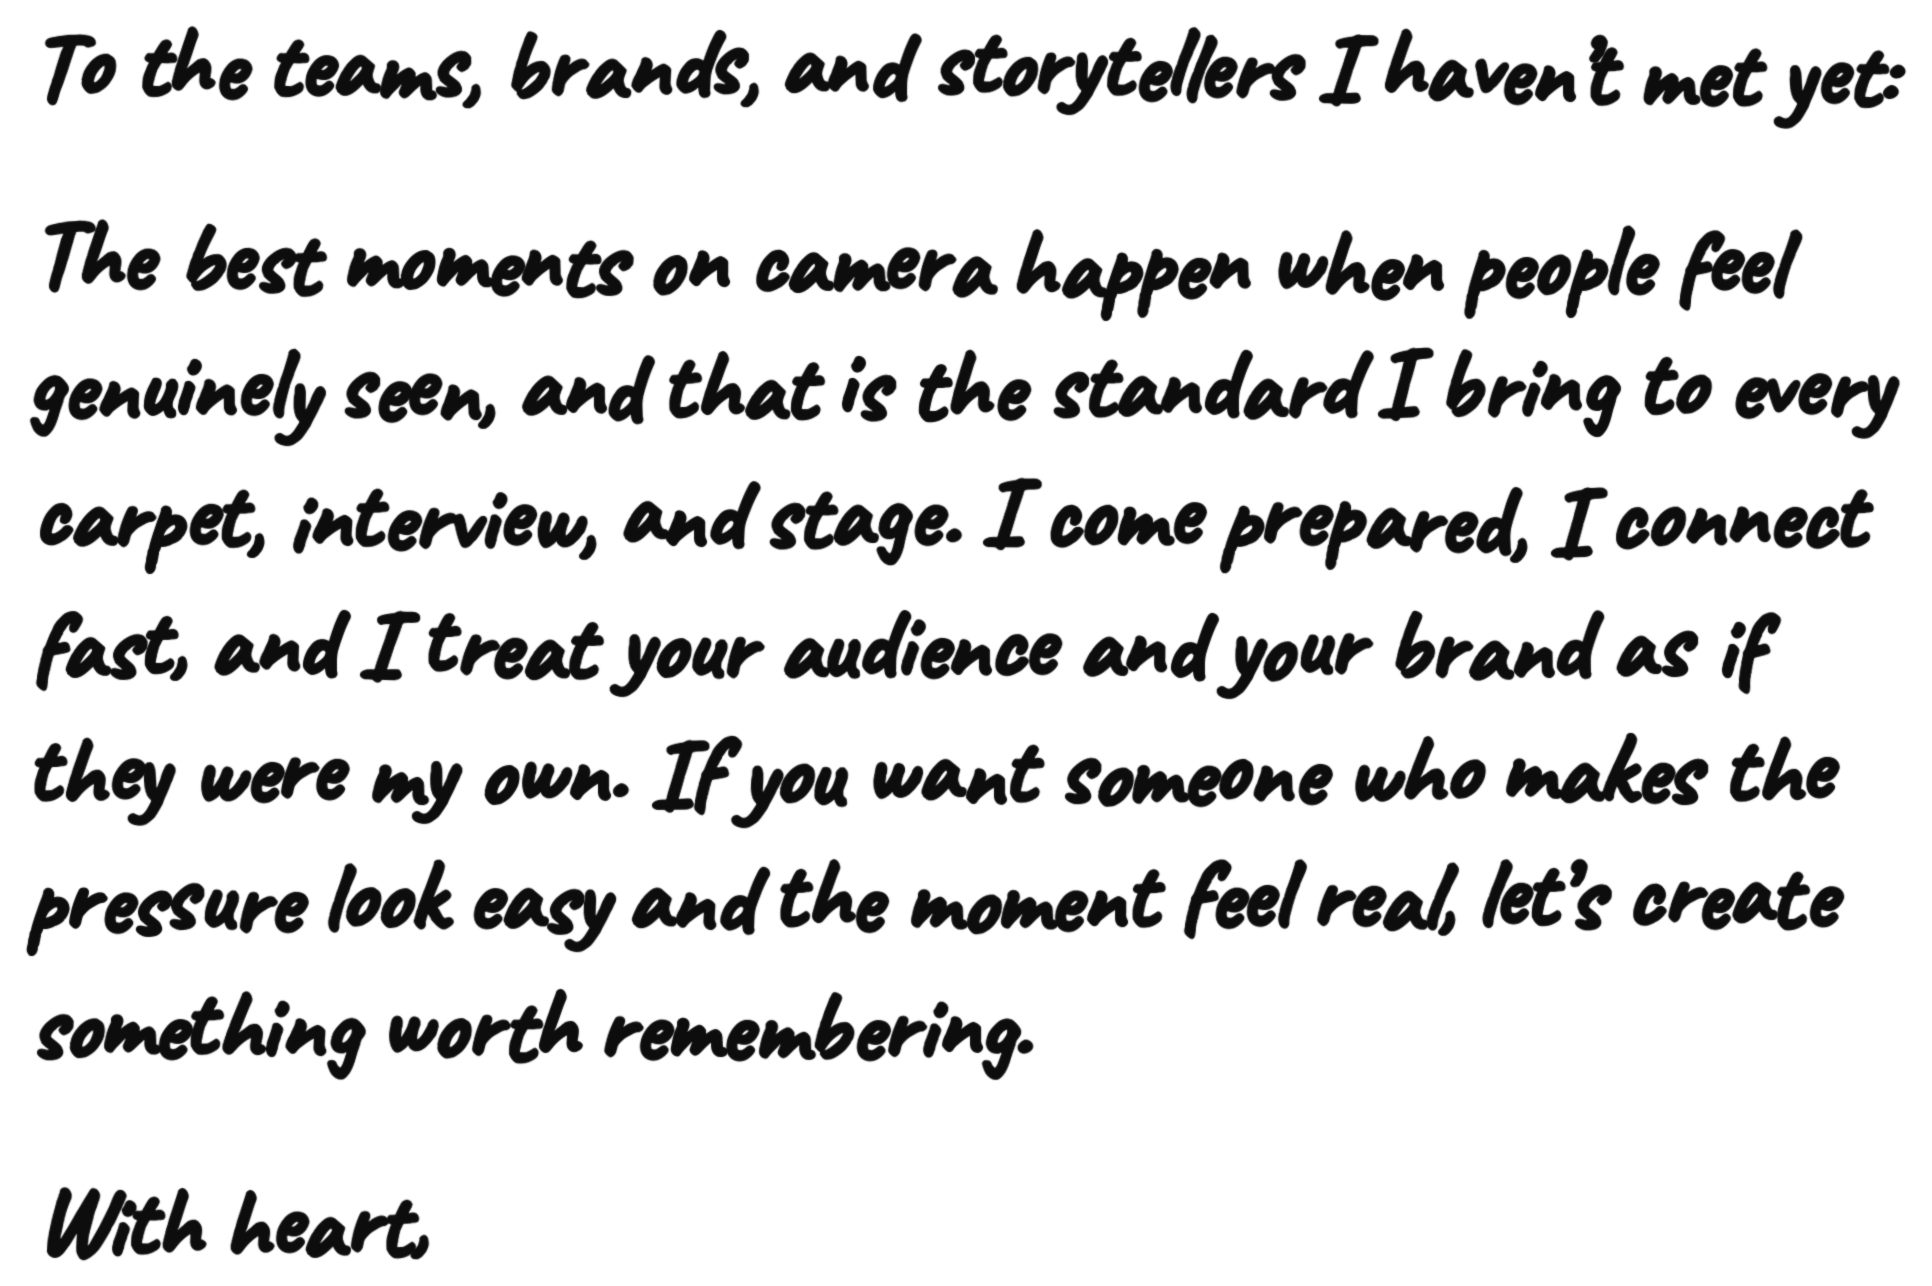
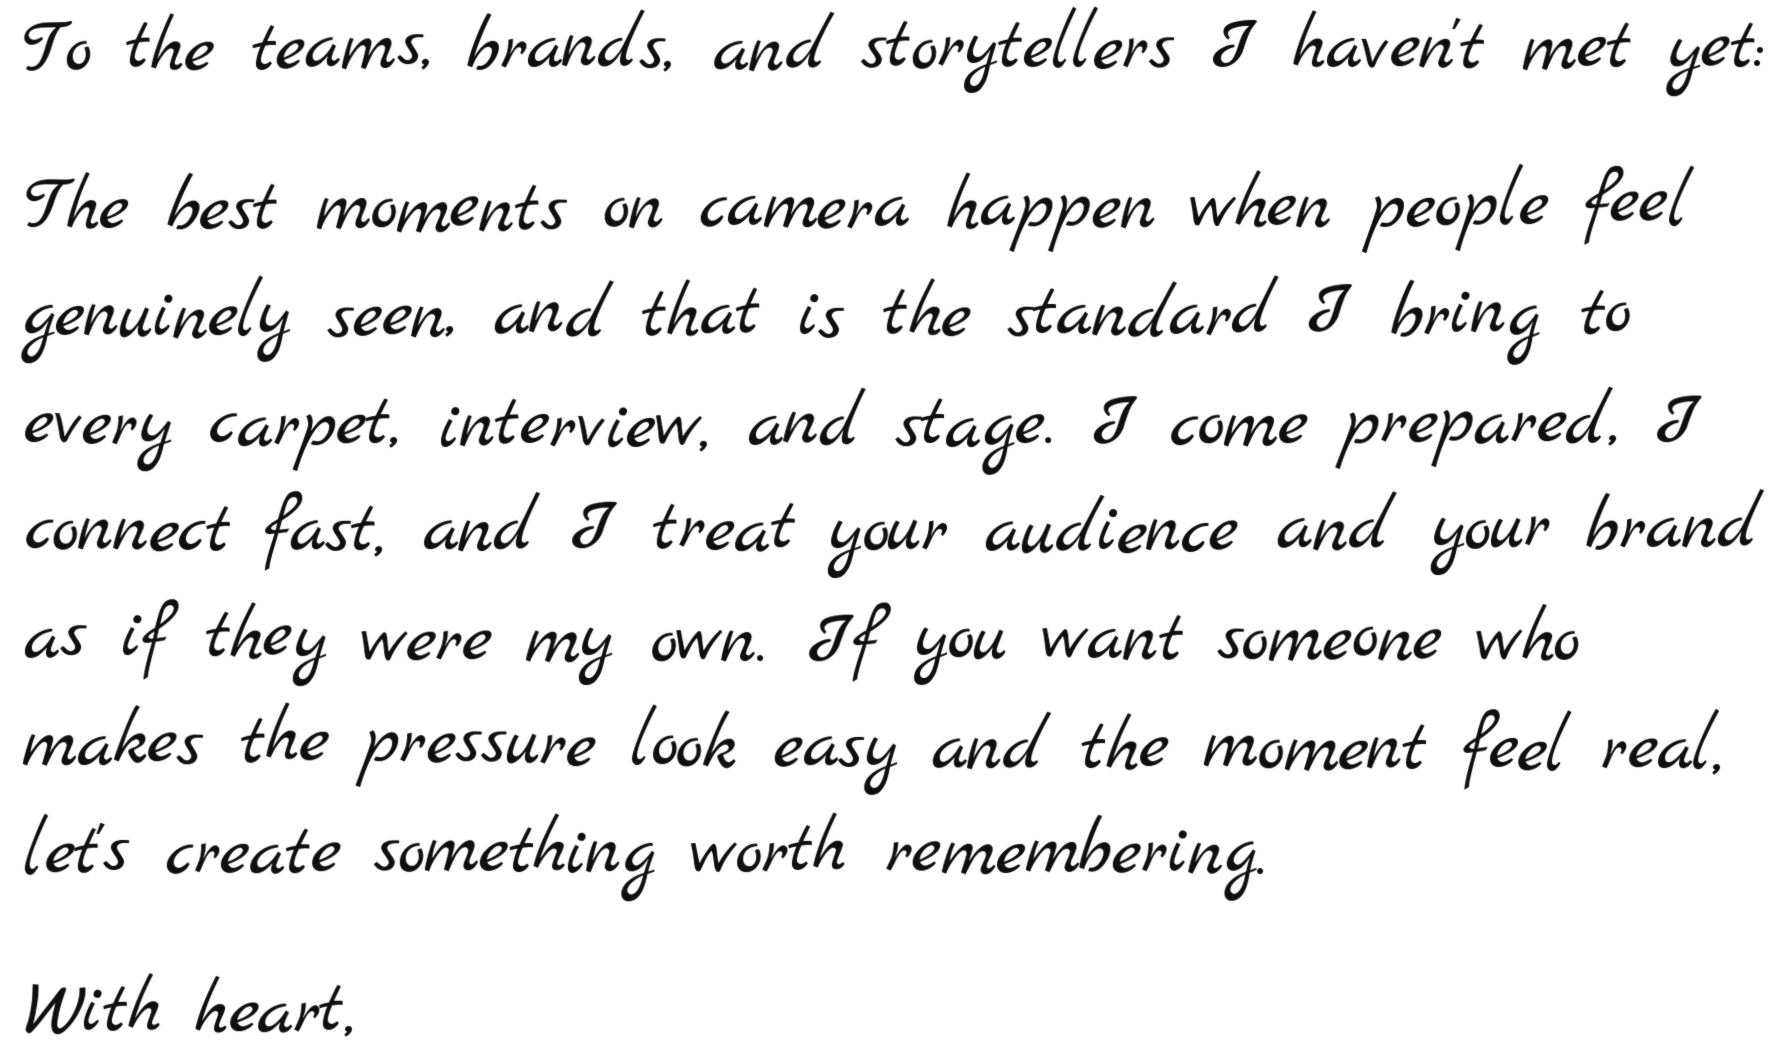
Set letter in Autentico-style handwriting (Marck Script), realistic slate ratio
Claude-Session: https://claude.ai/code/session_01FEjmKaxiwjKdYgFvJ56WtP

diff --git a/index.html b/index.html
@@ -265,7 +265,7 @@
             <div class="clapboard__hinge" aria-hidden="true"><i></i><i></i></div>
             <div class="clapboard__topbar" aria-hidden="true"></div>
             <div class="letter">
-              <img class="letter__hand" src="img/letter-hand.png" width="1932" height="1286"
+              <img class="letter__hand" src="img/letter-hand.png" width="1785" height="1058"
                    alt="Handwritten note: To the teams, brands, and storytellers I haven&rsquo;t met yet: The best moments on camera happen when people feel genuinely seen, and that is the standard I bring to every carpet, interview, and stage. I come prepared, I connect fast, and I treat your audience and your brand as if they were my own. If you want someone who makes the pressure look easy and the moment feel real, let&rsquo;s create something worth remembering. With heart," />
               <img class="letter__sign" src="img/signature.png" alt="Ashley Nicole Singleton signature" width="646" height="451" />
             </div>
